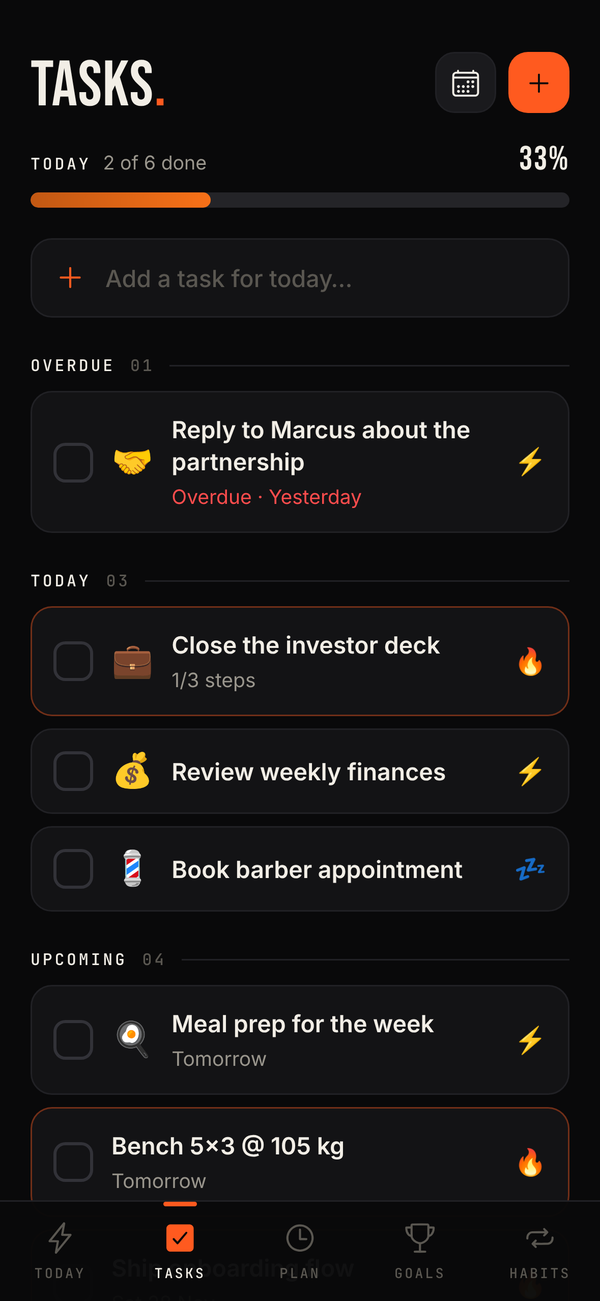
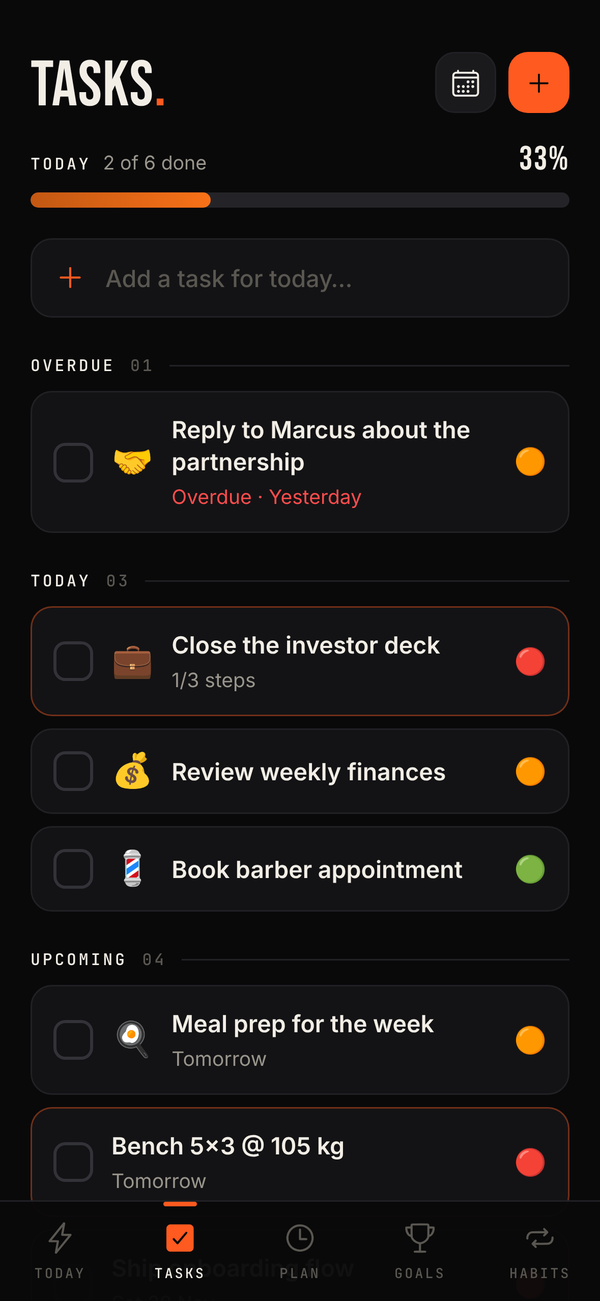
Priority emojis: 🔴 high, 🟠 medium, 🟢 low
Task rows, the task editor and the press-and-hold preview all use the
new circles. README and screenshots updated.

Claude-Session: https://claude.ai/code/session_01CpnqKBYkFEMMjAgbcPSnAW

diff --git a/src/lib/categories.ts b/src/lib/categories.ts
@@ -31,9 +31,9 @@ export type Priority = 1 | 2 | 3;
 
 /** Shown as an emoji on the right of every open task. */
 export const PRIORITIES: Record<Priority, { label: string; emoji: string }> = {
-  1: { label: 'HIGH', emoji: '🔥' },
-  2: { label: 'MEDIUM', emoji: '⚡' },
-  3: { label: 'LOW', emoji: '💤' },
+  1: { label: 'HIGH', emoji: '🔴' },
+  2: { label: 'MEDIUM', emoji: '🟠' },
+  3: { label: 'LOW', emoji: '🟢' },
 };
 
 /** Stored on goals for older data; no longer shown in the UI. */

diff --git a/README.md b/README.md
@@ -78,7 +78,7 @@ Most productivity apps split the day across separate tools: one for to-dos, one 
 |---|---|
 | **Today** | Your line for the day (tap to write your own and pick its size, or get a new one each day), a progress ring, a streak counter, a **GitHub-style activity heatmap**, a "now / next" schedule card with a live progress bar, and today's tasks with quick add. |
 | **Weekly Wrap** | Your week as a story, Spotify Wrapped style: tasks closed, your best day on a **3D bar chart**, habit consistency, deep-work sessions, where your planned time went on a **3D donut**, your "persona" (morning grinder, night owl…), streak, and a **weekly score** with a table comparing every stat to the week before (or the same days last week while the week is still going). |
-| **Tasks** | One list grouped into Overdue, Today, Upcoming and Someday, with **today's productivity** as a bar in the header that turns from red through orange to green as you get closer to 100%. Each task can have an **emoji**, a **priority** shown as an emoji on the right (🔥 high · ⚡ medium · 💤 low), a due date, notes and a **checklist of steps**. **Swipe left** on a task to delete it (a long swipe deletes straight away; a toast lets you undo). |
+| **Tasks** | One list grouped into Overdue, Today, Upcoming and Someday, with **today's productivity** as a bar in the header that turns from red through orange to green as you get closer to 100%. Each task can have an **emoji**, a **priority** shown as an emoji on the right (🔴 high · 🟠 medium · 🟢 low), a due date, notes and a **checklist of steps**. **Swipe left** on a task to delete it (a long swipe deletes straight away; a toast lets you undo). |
 | **Task history** | A month calendar where every day is coloured by how much of that day's list got done (red → amber → light green → green) and shows done/total. Tap a day to see what you finished and what you missed. |
 | **Press and hold** | Hold a task and the row lifts. **Drag** to put it anywhere in the list (dated tasks stay within their day), or **let go** for a preview: the screen blurs and the card opens in the middle of the screen, where you can tick off or add steps, start a focus session, mark it done or delete it. |
 | **Plan** | Two views of the day. **List** (default) reads like a written plan — `10:30 – 12:30  Wake up, skincare, eat` on one line that shrinks to fit — with free time between blocks and a live "now" row; **double-tap a block to cross it off**. **Timeline** is a 24-hour grid with a "now" line. Type a block the way you'd write it (`14:00 - 15:30 Gym`) or **paste a whole day from your notes** into the same line: times are parsed in the order of your day (12-hour without am/pm works), the kind of block is guessed from the words, and a plan can run past midnight (until 06:00). Hold a block to edit, move it 30 minutes later, duplicate it to tomorrow or delete it; **copy yesterday's plan** for an empty day. |
